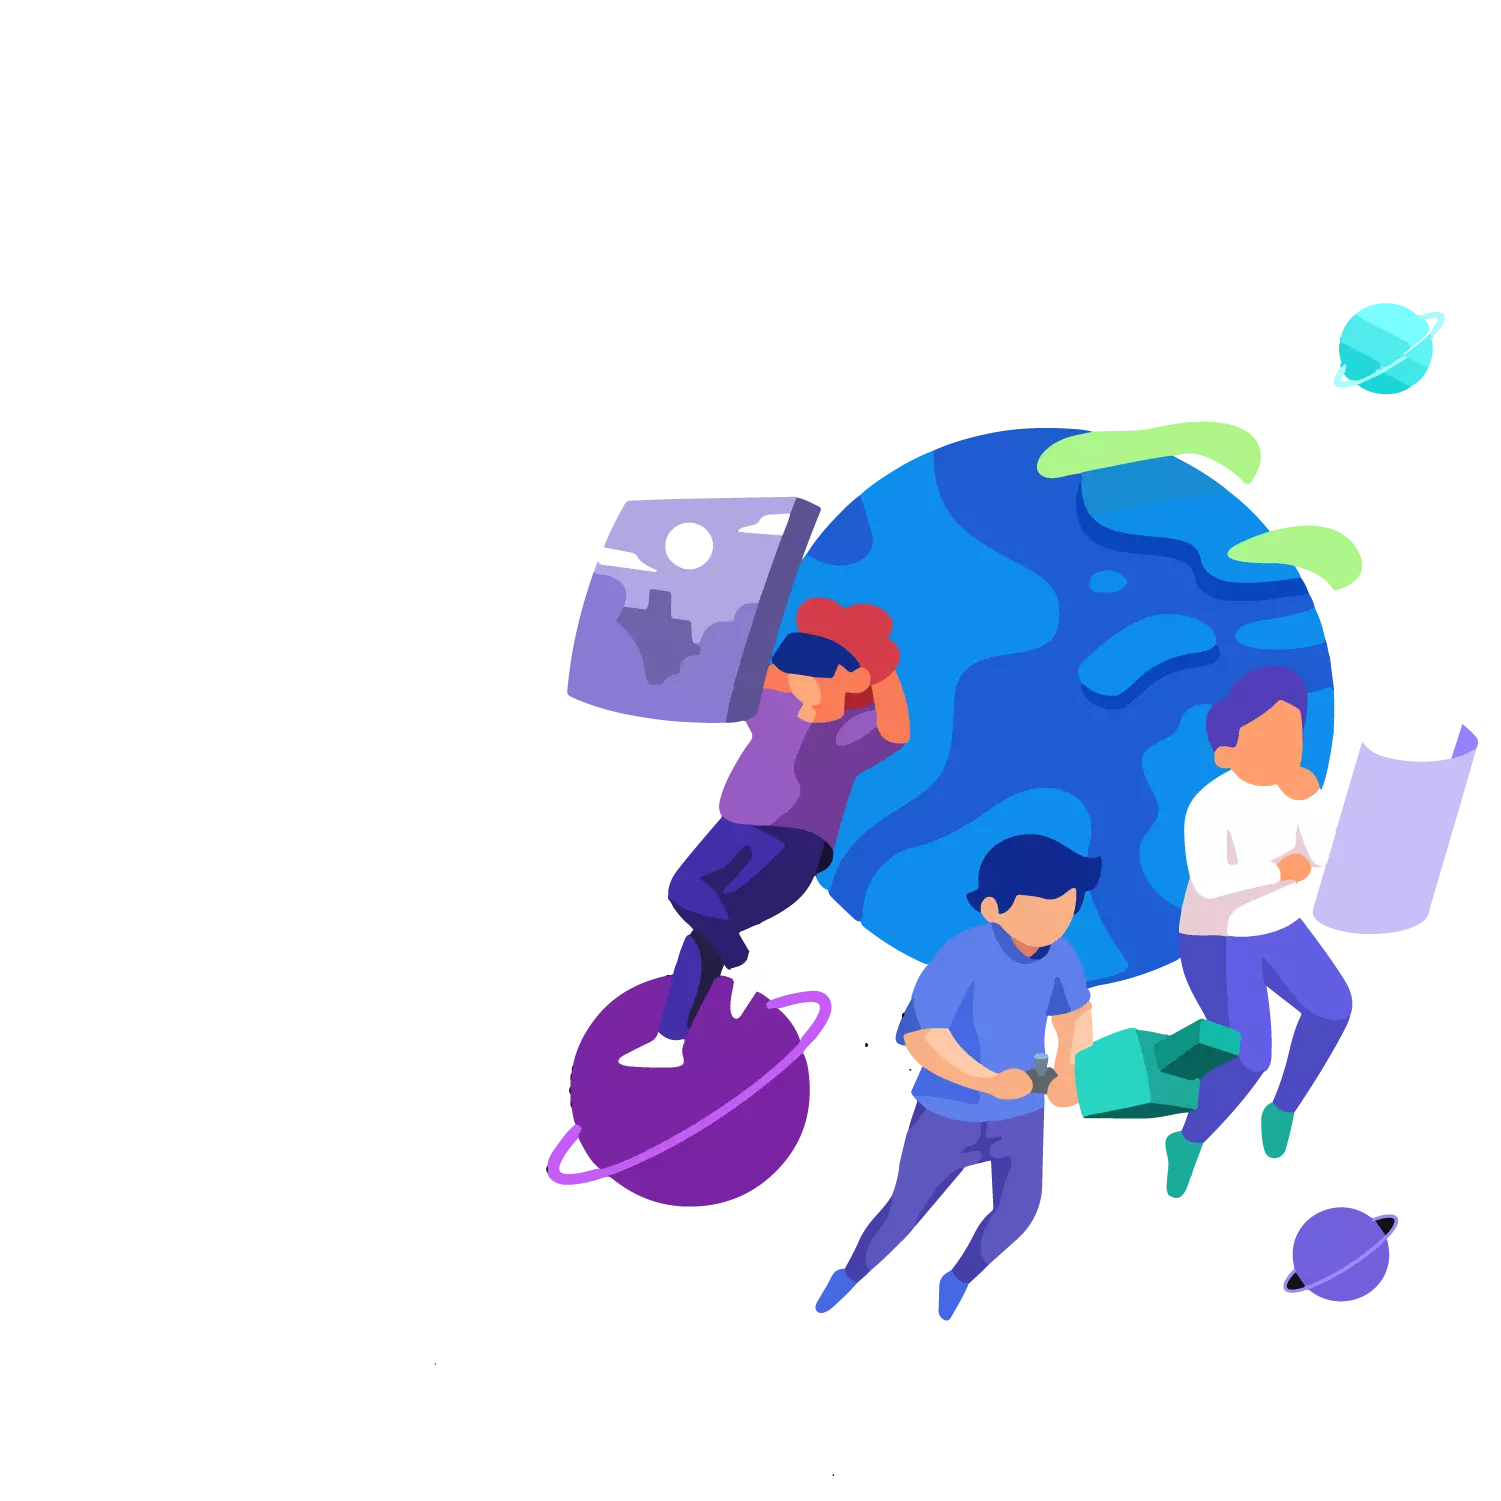
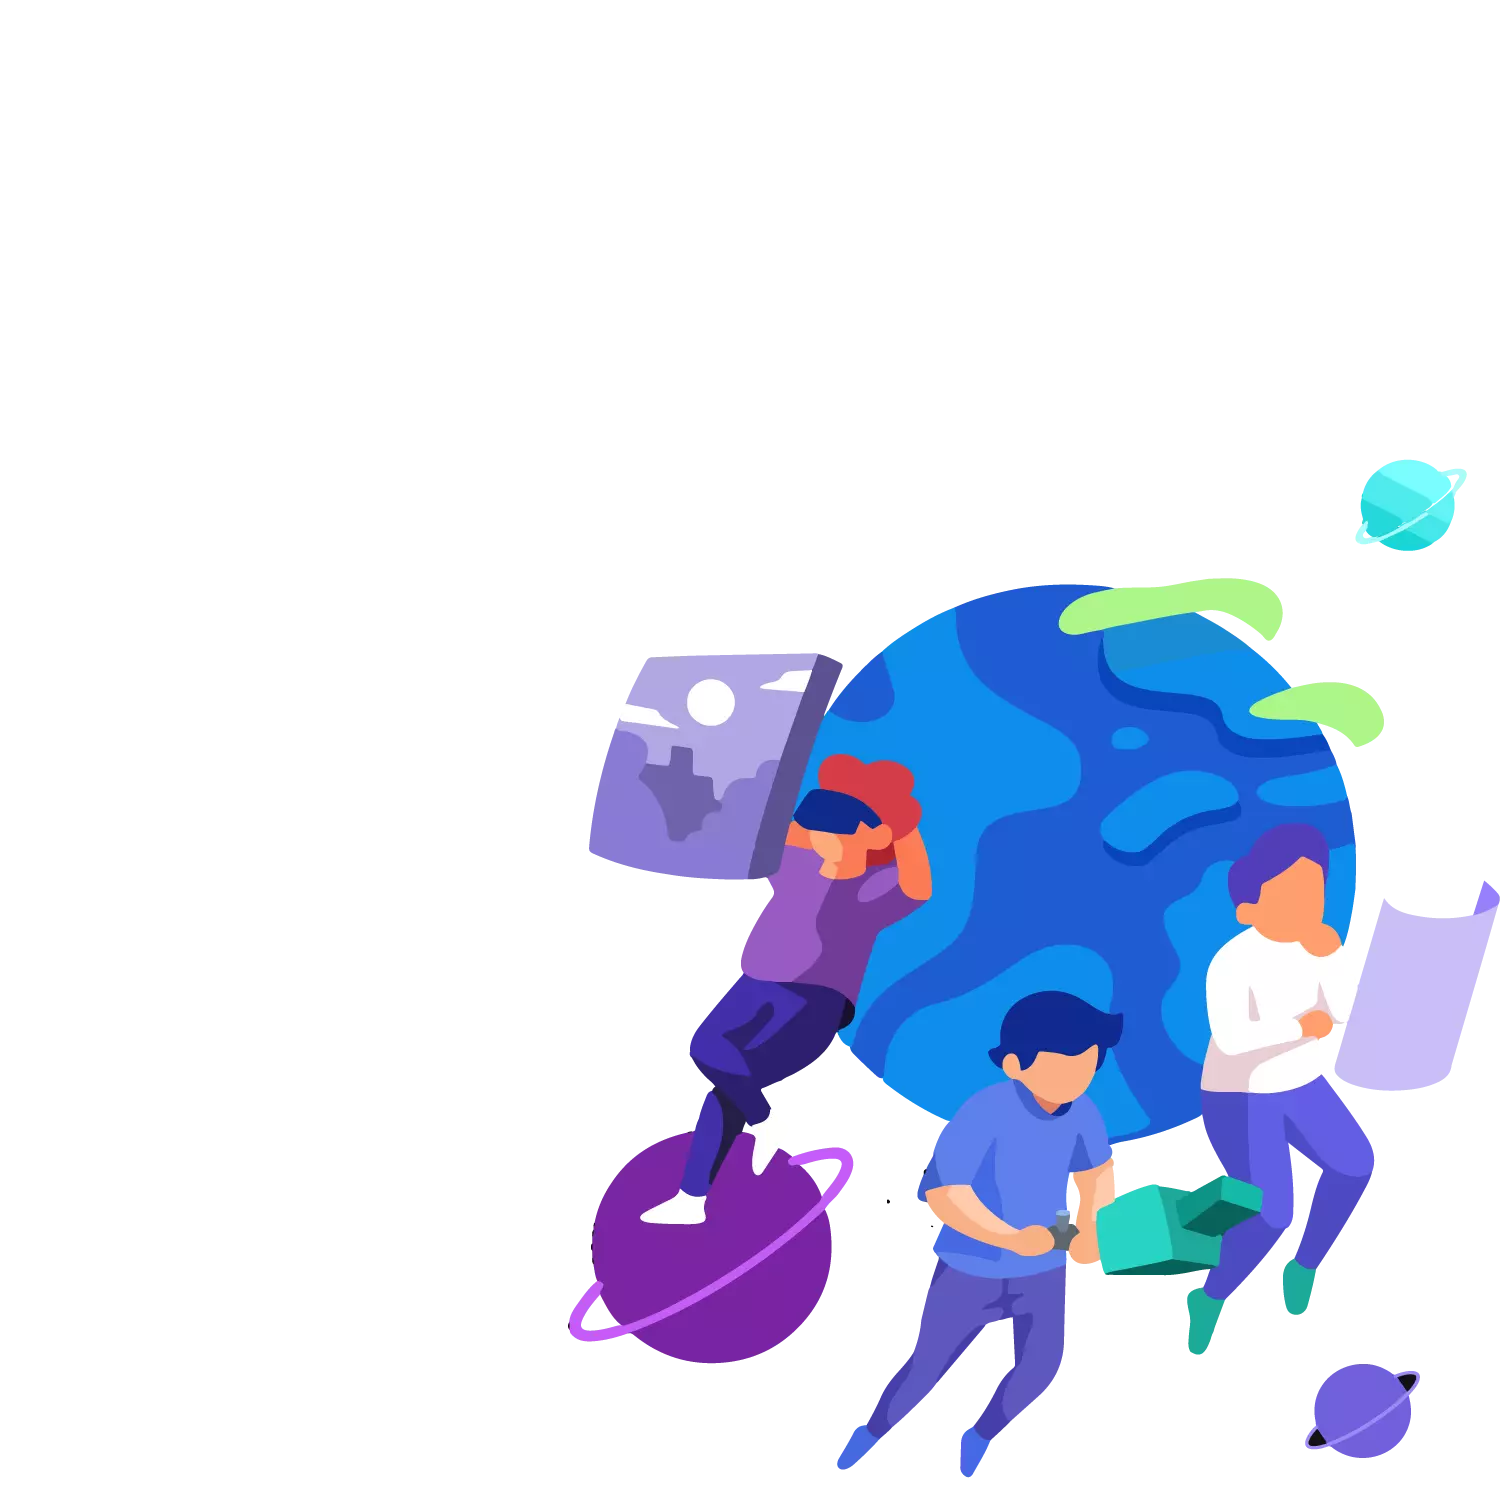
commit 2

Changed region(s): [[0.3678, 0.2758, 1.0, 0.9807], [0.8887, 0.1839, 0.9807, 0.2758], [0.5516, 0.95, 0.5823, 0.9807]]

diff --git a/src/container/home/match/index.jsx b/src/container/home/match/index.jsx
@@ -1,65 +1,65 @@
-// import React from "react";
-// import PropTypes from "prop-types";
-// import MatchItem from "../../../components/match";
-// import SectionTitle from "../../../components/title";
-// import Button from "../../../components/shared/button";
+import React from "react";
+import PropTypes from "prop-types";
+import MatchItem from "../../../components/match";
+import SectionTitle from "../../../components/title";
+import Button from "../../../components/shared/button";
 
-// const MatchArea = ({ data }) => {
-//     return (
-//         <section className="upcoming-gaming-section pb-16 md:pb-28">
-//             <div className="container">
-//                 {data?.section_title && (
-//                     <div className="section-title mb-15">
-//                         <SectionTitle
-//                             heading={data?.section_title.heading}
-//                             {...data.section_title}
-//                         />
-//                     </div>
-//                 )}
-//                 {data?.items &&
-//                     data?.items.map((item) => (
-//                         <MatchItem
-//                             key={item.id}
-//                             title={item?.title}
-//                             date={item?.date}
-//                             registeredTeams={item?.registeredTeams}
-//                             slug={item?.slug}
-//                             video_link={item?.liveStreaming?.link}
-//                             teamImage1={item?.teams[0]?.logo.src}
-//                             teamImage2={item?.teams[1]?.logo.src}
-//                         />
-//                     ))}
-//                 <div className="more-match text-center">
-//                     {data?.buttons &&
-//                         data.buttons.map(({ id, content, ...props }) => (
-//                             <Button
-//                                 key={id}
-//                                 {...props}
-//                                 className="text-white mt-15"
-//                             >
-//                                 {content}
-//                             </Button>
-//                         ))}
-//                 </div>
-//             </div>
-//         </section>
-//     );
-// };
-// MatchArea.propTypes = {
-//     data: PropTypes.shape({
-//         section_title: PropTypes.shape({
-//             heading: PropTypes.string,
-//         }),
-//         items: PropTypes.arrayOf(
-//             PropTypes.shape({
-//                 id: PropTypes.oneOfType([PropTypes.string, PropTypes.number]),
-//             })
-//         ),
-//         buttons: PropTypes.arrayOf(
-//             PropTypes.shape({
-//                 content: PropTypes.string,
-//             })
-//         ),
-//     }),
-// };
-// export default MatchArea;
+const MatchArea = ({ data }) => {
+    return (
+        <section className="upcoming-gaming-section pb-16 md:pb-28">
+            <div className="container">
+                {data?.section_title && (
+                    <div className="section-title mb-15">
+                        <SectionTitle
+                            heading={data?.section_title.heading}
+                            {...data.section_title}
+                        />
+                    </div>
+                )}
+                {data?.items &&
+                    data?.items.map((item) => (
+                        <MatchItem
+                            key={item.id}
+                            title={item?.title}
+                            date={item?.date}
+                            registeredTeams={item?.registeredTeams}
+                            slug={item?.slug}
+                            video_link={item?.liveStreaming?.link}
+                            teamImage1={item?.teams[0]?.logo.src}
+                            teamImage2={item?.teams[1]?.logo.src}
+                        />
+                    ))}
+                <div className="more-match text-center">
+                    {data?.buttons &&
+                        data.buttons.map(({ id, content, ...props }) => (
+                            <Button
+                                key={id}
+                                {...props}
+                                className="text-white mt-15"
+                            >
+                                {content}
+                            </Button>
+                        ))}
+                </div>
+            </div>
+        </section>
+    );
+};
+MatchArea.propTypes = {
+    data: PropTypes.shape({
+        section_title: PropTypes.shape({
+            heading: PropTypes.string,
+        }),
+        items: PropTypes.arrayOf(
+            PropTypes.shape({
+                id: PropTypes.oneOfType([PropTypes.string, PropTypes.number]),
+            })
+        ),
+        buttons: PropTypes.arrayOf(
+            PropTypes.shape({
+                content: PropTypes.string,
+            })
+        ),
+    }),
+};
+export default MatchArea;

diff --git a/src/container/home/popular-game/index.jsx b/src/container/home/popular-game/index.jsx
@@ -1,52 +1,52 @@
-// import React from "react";
-// import PropTypes from "prop-types";
-// import GameCard from "../../../components/games-card";
-// import SectionTitle from "../../../components/title";
+import React from "react";
+import PropTypes from "prop-types";
+import GameCard from "../../../components/games-card";
+import SectionTitle from "../../../components/title";
 
-// const PopulerGamesArea = ({ data }) => {
-//     return (
-//         <section className="populer-games-section pt-16 md:pt-24 py-16 md:py-28">
-//             <div className="container">
-//                 {data?.section_title && (
-//                     <div className="section-title mb-15">
-//                         <SectionTitle
-//                             heading={data?.section_title.heading}
-//                             {...data.section_title}
-//                         />
-//                     </div>
-//                 )}
+const PopulerGamesArea = ({ data }) => {
+    return (
+        <section className="populer-games-section pt-16 md:pt-24 py-16 md:py-28">
+            <div className="container">
+                {data?.section_title && (
+                    <div className="section-title mb-15">
+                        <SectionTitle
+                            heading={data?.section_title.heading}
+                            {...data.section_title}
+                        />
+                    </div>
+                )}
 
-//                 <div className="flex flex-wrap -mt-8">
-//                     {data?.items &&
-//                         data?.items.map((item) => (
-//                             <div
-//                                 className="w-full md:w-1/2 lg:w-1/2 px-4"
-//                                 key={item.id}
-//                             >
-//                                 <GameCard
-//                                     date={item?.date}
-//                                     slug={item?.slug}
-//                                     image={item.gameThum.src}
-//                                     alt={item?.gameThum?.alt}
-//                                     buttons={item?.buttons}
-//                                 />
-//                             </div>
-//                         ))}
-//                 </div>
-//             </div>
-//         </section>
-//     );
-// };
-// PopulerGamesArea.propTypes = {
-//     data: PropTypes.shape({
-//         section_title: PropTypes.shape({
-//             heading: PropTypes.string,
-//         }),
-//         items: PropTypes.arrayOf(
-//             PropTypes.shape({
-//                 id: PropTypes.oneOfType([PropTypes.string, PropTypes.number]),
-//             })
-//         ),
-//     }),
-// };
-// export default PopulerGamesArea;
+                <div className="flex flex-wrap -mt-8">
+                    {data?.items &&
+                        data?.items.map((item) => (
+                            <div
+                                className="w-full md:w-1/2 lg:w-1/2 px-4"
+                                key={item.id}
+                            >
+                                <GameCard
+                                    date={item?.date}
+                                    slug={item?.slug}
+                                    image={item.gameThum.src}
+                                    alt={item?.gameThum?.alt}
+                                    buttons={item?.buttons}
+                                />
+                            </div>
+                        ))}
+                </div>
+            </div>
+        </section>
+    );
+};
+PopulerGamesArea.propTypes = {
+    data: PropTypes.shape({
+        section_title: PropTypes.shape({
+            heading: PropTypes.string,
+        }),
+        items: PropTypes.arrayOf(
+            PropTypes.shape({
+                id: PropTypes.oneOfType([PropTypes.string, PropTypes.number]),
+            })
+        ),
+    }),
+};
+export default PopulerGamesArea;

diff --git a/src/container/home/funfact/index.jsx b/src/container/home/funfact/index.jsx
@@ -1,39 +1,39 @@
-// import React from "react";
-// import PropTypes from "prop-types";
-// import FunfactItem from "../../../components/funfact";
+import React from "react";
+import PropTypes from "prop-types";
+import FunfactItem from "../../../components/funfact";
 
-// const FunfactArea = ({ data }) => {
-//     const conterCol =
-//         "single-funfact-item w-full xs:w-1/2 sm:w-1/2 md:w-1/4 lg:w-1/4 px-4 justify-center relative content-last-child-before before:absolute before:-right-2 before:top-1/2 before:transform before:text-green before:text-md before:font-bold content-before";
-//     return (
-//         <section className="funfact-section">
-//             <div className="container">
-//                 <div className="counterup_inner flex flex-wrap">
-//                     {data?.items &&
-//                         data?.items.map((item) => (
-//                             <div
-//                                 className={conterCol}
-//                                 tw-content-before="/ /"
-//                                 key={item.id}
-//                             >
-//                                 <FunfactItem
-//                                     title={item.headings[0].content}
-//                                     countNumber={item.countNumber}
-//                                 />
-//                             </div>
-//                         ))}
-//                 </div>
-//             </div>
-//         </section>
-//     );
-// };
-// FunfactArea.propTypes = {
-//     data: PropTypes.shape({
-//         items: PropTypes.arrayOf(
-//             PropTypes.shape({
-//                 id: PropTypes.oneOfType([PropTypes.string, PropTypes.number]),
-//             })
-//         ),
-//     }),
-// };
-// export default FunfactArea;
+const FunfactArea = ({ data }) => {
+    const conterCol =
+        "single-funfact-item w-full xs:w-1/2 sm:w-1/2 md:w-1/4 lg:w-1/4 px-4 justify-center relative content-last-child-before before:absolute before:-right-2 before:top-1/2 before:transform before:text-green before:text-md before:font-bold content-before";
+    return (
+        <section className="funfact-section">
+            <div className="container">
+                <div className="counterup_inner flex flex-wrap">
+                    {data?.items &&
+                        data?.items.map((item) => (
+                            <div
+                                className={conterCol}
+                                tw-content-before="/ /"
+                                key={item.id}
+                            >
+                                <FunfactItem
+                                    title={item.headings[0].content}
+                                    countNumber={item.countNumber}
+                                />
+                            </div>
+                        ))}
+                </div>
+            </div>
+        </section>
+    );
+};
+FunfactArea.propTypes = {
+    data: PropTypes.shape({
+        items: PropTypes.arrayOf(
+            PropTypes.shape({
+                id: PropTypes.oneOfType([PropTypes.string, PropTypes.number]),
+            })
+        ),
+    }),
+};
+export default FunfactArea;

diff --git a/src/container/home/welcome-features/index.jsx b/src/container/home/welcome-features/index.jsx
@@ -4,7 +4,7 @@ import SectionTitle from "../../../components/title";
 import WelcomeFeatures from "../../../components/welcome-features";
 const WelcomeFeaturesArea = ({ data }) => {
     return (
-        <section className="pt-16 md:pt-24">
+        <section className="pt-12 md:pt-24">
             <div className="container px-4">
                 {data?.section_title && (
                     <SectionTitle
@@ -12,12 +12,12 @@ const WelcomeFeaturesArea = ({ data }) => {
                         {...data.section_title}
                     />
                 )}
-                <div className="flex flex-wrap -mx-2 text-center">
+                <div className="flex flex-wrap -mx-3 text-center">
                     {data?.items &&
                         data?.items.map((item) => (
                             <div
                                 key={item.id}
-                                className="w-full md:w-1/2 lg:w-1/2 px-3"
+                                className="w-full md:w-1/5 lg:w-1/2 px-5"
                             >
                                 <WelcomeFeatures
                                     title={item.headings[0].content}

diff --git a/src/components/welcome-features/index.jsx b/src/components/welcome-features/index.jsx
@@ -9,7 +9,7 @@ const WelcomeFeatures = ({ title, description, iconImage, bgShapImage }) => {
             <div className="content relative z-10">
                 <GatsbyImage className="mb-10" image={image1} alt={title} />
                 <h3 className="font-bold text-white mb-4">{title}</h3>
-                <p className="text-white leading-7">{description}</p>
+                <p className="text-white leading-5">{description}</p>
             </div>
             <div className="absolute inset-0 z-0">
                 <GatsbyImage image={image2} alt={title} />

diff --git a/src/container/home/hero/index.jsx b/src/container/home/hero/index.jsx
@@ -40,7 +40,7 @@ const HeroArea = ({ data }) => {
             <div className="absolute right-0.5 bottom-0">
                 <StaticImage
                     className="w-96 md:w-650 xl:w-auto"
-                    src="../../../data/images/hero/hero-position-img.webp"
+                    src="../../../data/images/hero/Artboard.png"
                     alt=""
                 />
             </div>

diff --git a/src/assets/css/global.css b/src/assets/css/global.css
@@ -24,7 +24,7 @@
         @apply text-body mb-4 last:mb-0;
     }
     h1 {
-        @apply font-sans text-xl sm:text-2xl md:text-2xl lg:text-3xl xl:text-4xl;
+        @apply font-exo text-xl sm:text-2xl md:text-2xl lg:text-3xl xl:text-4xl;
     }
     h2 {
         @apply text-28base sm:text-32base md:text-xl xl:text-lg;
